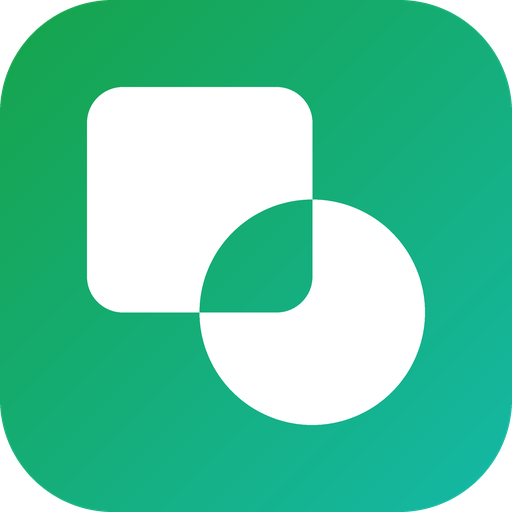
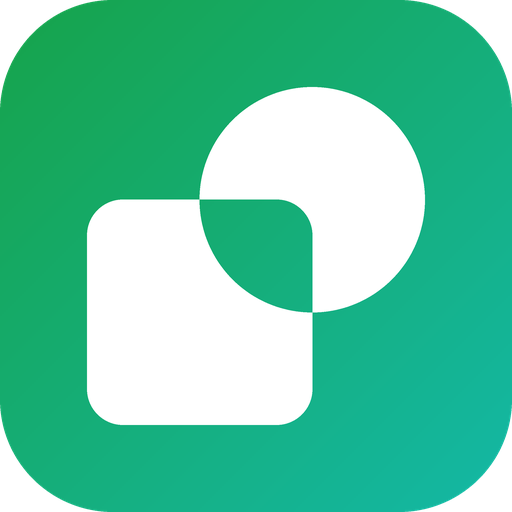
Ikon berfilosofi Borobudur, rilis 1.0.1
Persegi (rupa) di bawah naik menjadi lingkaran (arupa) di atas; README
menjelaskan filosofi ikon.

Changed region(s): [[0.1562, 0.1562, 0.8438, 0.8438]]

diff --git a/jelma/ikon.py b/jelma/ikon.py
@@ -34,12 +34,13 @@ def buat_gambar(sisi: int = 256) -> Image.Image:
     img = _gradasi(s).convert("RGBA")
     img.putalpha(ubin)
 
-    # Kotak (wujud asal) dan lingkaran (wujud baru) saling menimpa; irisannya dilubangi.
+    # Seperti teras Borobudur: persegi (rupa, berwujud) di bawah naik menjadi lingkaran (arupa) di atas.
+    # Irisannya dilubangi: saat menjelma, bukan lagi persegi dan belum lingkaran.
     kotak = Image.new("L", (s, s), 0)
     ImageDraw.Draw(kotak).rounded_rectangle(
-        (int(s * 0.17), int(s * 0.17), int(s * 0.61), int(s * 0.61)), radius=int(s * 0.07), fill=255)
+        (int(s * 0.17), int(s * 0.39), int(s * 0.61), int(s * 0.83)), radius=int(s * 0.07), fill=255)
     bulat = Image.new("L", (s, s), 0)
-    ImageDraw.Draw(bulat).ellipse((int(s * 0.39), int(s * 0.39), int(s * 0.83), int(s * 0.83)), fill=255)
+    ImageDraw.Draw(bulat).ellipse((int(s * 0.39), int(s * 0.17), int(s * 0.83), int(s * 0.61)), fill=255)
     bentuk = ImageChops.logical_xor(kotak.convert("1"), bulat.convert("1")).convert("L")
 
     putih = Image.new("RGBA", (s, s), (255, 255, 255, 255))

diff --git a/jelma/__init__.py b/jelma/__init__.py
@@ -1,2 +1,2 @@
 """Jelma: konversi berkas langsung dari Explorer, offline."""
-__version__ = "1.0.0"
+__version__ = "1.0.1"

diff --git a/README.md b/README.md
@@ -35,6 +35,17 @@ mengganti kombinasi tombol, atau mematikan mulai otomatis.
 
 Hasil baca QR code disalin ke clipboard sekaligus disimpan sebagai `.txt`.
 
+## Filosofi ikon
+
+Ikon Jelma terinspirasi dari susunan Candi Borobudur: teras **persegi** di bawah (*Rupadhatu*, ranah yang masih
+terikat bentuk) naik menuju teras **melingkar** di atas (*Arupadhatu*, ranah tanpa bentuk).
+
+- **Persegi** di kiri-bawah: berkas dalam wujud asalnya.
+- **Lingkaran** di kanan-atas: berkas dalam wujud barunya.
+- **Arah naik**: perubahan sebagai pendakian, dibaca kiri ke kanan dan bawah ke atas.
+- **Irisan yang dilubangi**: saat *menjelma* ("mewujudkan diri; mengambil bentuk", KBBI), bukan lagi persegi dan belum lingkaran.
+- **Putih utuh**: berkas asli tidak pernah dirusak; yang berubah hanya wujudnya.
+
 ## Membangun dari kode
 
 Butuh Python 3.12 dan [Inno Setup 6](https://jrsoftware.org/isinfo.php).
